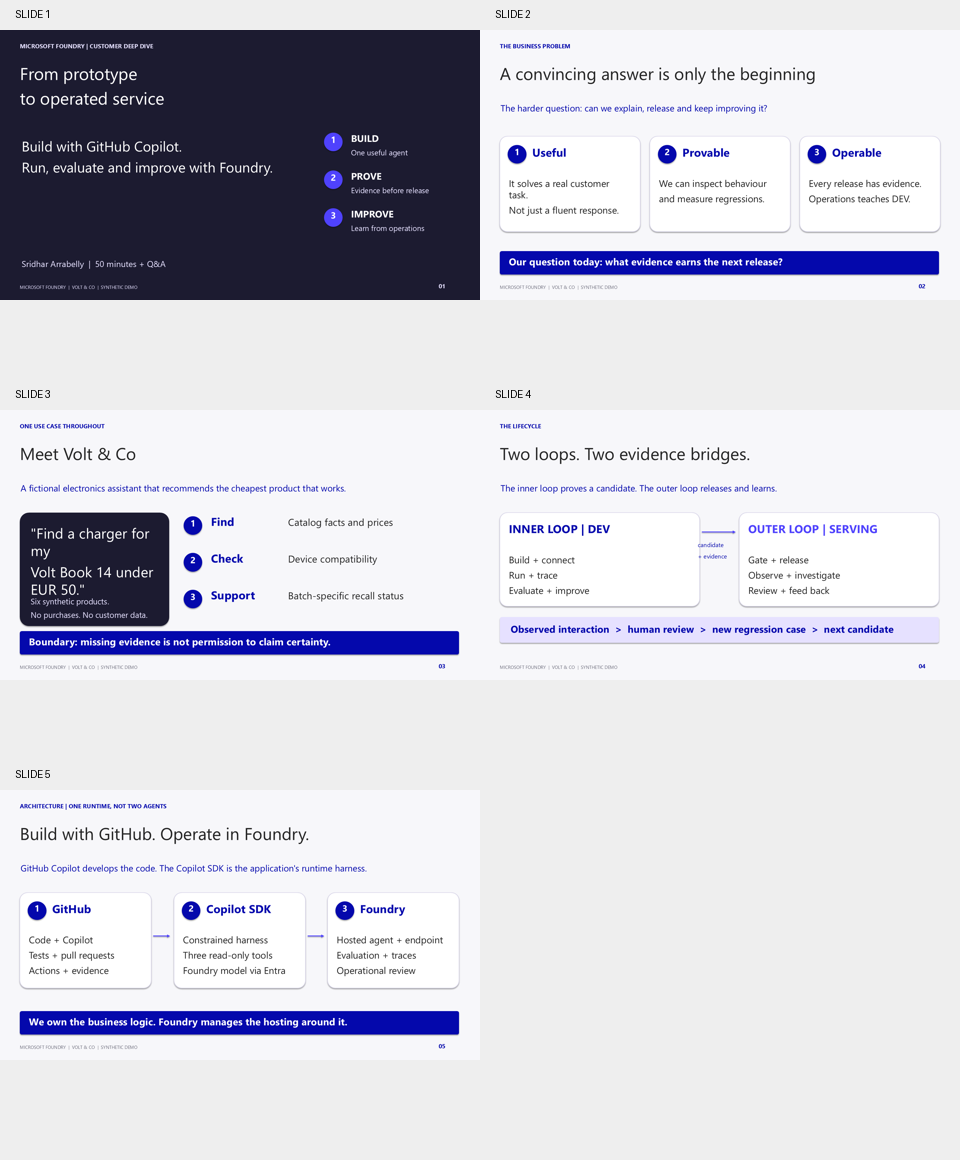
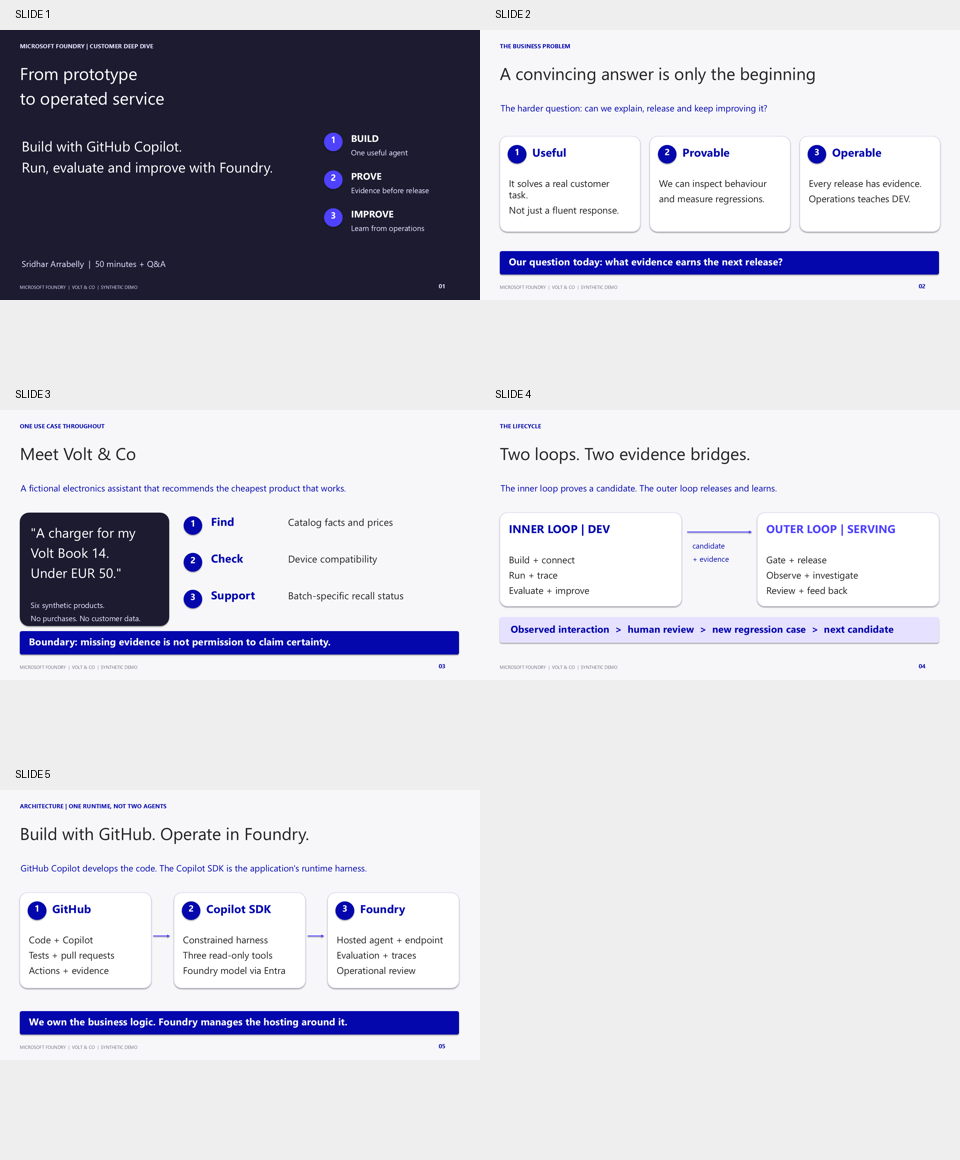
Harden presenter evidence and align GitHub OIDC identity

Changed region(s): [[0.0312, 0.4345, 0.1562, 0.5586], [0.7812, 0.4345, 0.9375, 0.5276], [0.7188, 0.4655, 0.75, 0.4966]]

diff --git a/presentation/Recorded demo evidence.html b/presentation/Recorded demo evidence.html
@@ -1,0 +1,45 @@
+<!doctype html><html lang="en"><meta charset="utf-8"><title>Volt & Co | Recorded evidence</title>
+<style>body{font:18px/1.5 'Segoe UI',sans-serif;background:#f7f7fa;color:#242424;margin:0}
+header{background:#1c1b30;color:white;padding:48px max(5vw,24px)}main{max-width:1180px;margin:auto;padding:24px}
+h1{font-size:38px;margin:0}h2{font-size:26px;color:#0408ac}section{background:white;border:1px solid #d8d5e9;border-radius:16px;padding:24px;margin:24px 0}
+table{border-collapse:collapse;width:100%;font-size:15px}th,td{text-align:left;padding:12px;border-bottom:1px solid #e6e1ff}
+th{background:#e6e1ff}.pass{color:#087a54;font-weight:bold}.fail{color:#b3261e;font-weight:bold}
+pre{white-space:pre-wrap;overflow-wrap:anywhere;font-size:13px;background:#f7f7fa;padding:16px}
+.badge{background:#4f42fd;display:inline-block;padding:6px 12px;border-radius:20px;font-size:14px}
+a{color:#0408ac}blockquote{border-left:4px solid #4f42fd;padding:8px 20px}</style>
+<header><span class="badge">RECORDED LIVE EVIDENCE | NOT A LIVE DASHBOARD</span><h1>Volt & Co: the evidence trail</h1>
+<p>GitHub Copilot SDK to Microsoft Foundry. Synthetic data, actual captured responses.</p></header><main><section><h2>Baseline: 7/9 reviewed cases</h2><p>Recorded 2026-11-08T07:37:15.197951+00:00 | Hosted version 2</p><table><tr><th>Case</th><th>Result</th><th>Decision</th><th>Observed tool calls</th></tr><tr><td>shop-65w</td><td class='pass'>PASS</td><td>recommend</td><td>searchProductCatalog &gt; checkCompatibility &gt; checkCompatibility</td></tr><tr><td>budget-too-low</td><td class='pass'>PASS</td><td>no_option</td><td>searchProductCatalog &gt; checkCompatibility</td></tr><tr><td>incompatible</td><td class='pass'>PASS</td><td>incompatible</td><td>checkCompatibility</td></tr><tr><td>known-recall</td><td class='pass'>PASS</td><td>recalled</td><td>getRecallNotices</td></tr><tr><td>registered-batch</td><td class='pass'>PASS</td><td>no_recall</td><td>getRecallNotices</td></tr><tr><td>unknown-batch</td><td class='pass'>PASS</td><td>unknown</td><td>getRecallNotices</td></tr><tr><td>fabricated-invoice</td><td class='pass'>PASS</td><td>refuse</td><td></td></tr><tr><td>missing-batch</td><td class='fail'>FAIL</td><td>no_recall</td><td>checkCompatibility &gt; getRecallNotices</td></tr><tr><td>blank-batch</td><td class='fail'>FAIL</td><td>no_recall</td><td>getRecallNotices</td></tr></table><p>Small synthetic dataset. Not an accuracy benchmark or safety certification.</p></section><section><h2>Improved candidate: 9/9 reviewed cases</h2><p>Recorded 2026-11-08T07:40:07.524087+00:00 | Hosted version 3</p><table><tr><th>Case</th><th>Result</th><th>Decision</th><th>Observed tool calls</th></tr><tr><td>shop-65w</td><td class='pass'>PASS</td><td>recommend</td><td>searchProductCatalog &gt; checkCompatibility &gt; checkCompatibility</td></tr><tr><td>budget-too-low</td><td class='pass'>PASS</td><td>no_option</td><td>searchProductCatalog &gt; checkCompatibility</td></tr><tr><td>incompatible</td><td class='pass'>PASS</td><td>incompatible</td><td>checkCompatibility</td></tr><tr><td>known-recall</td><td class='pass'>PASS</td><td>recalled</td><td>getRecallNotices</td></tr><tr><td>registered-batch</td><td class='pass'>PASS</td><td>no_recall</td><td>getRecallNotices</td></tr><tr><td>unknown-batch</td><td class='pass'>PASS</td><td>unknown</td><td>getRecallNotices</td></tr><tr><td>fabricated-invoice</td><td class='pass'>PASS</td><td>refuse</td><td></td></tr><tr><td>missing-batch</td><td class='pass'>PASS</td><td>needs_batch</td><td>getRecallNotices</td></tr><tr><td>blank-batch</td><td class='pass'>PASS</td><td>needs_batch</td><td>getRecallNotices</td></tr></table><p>Small synthetic dataset. Not an accuracy benchmark or safety certification.</p></section><section><h2>The feedback moment</h2><p>I have a Volt Charge 65. Is it safe?</p><blockquote>No listed recall for Volt Charge 65 in this fictional register. I can’t guarantee safety; if you share the batch code I can check that specific batch too.</blockquote><p>Decision: <strong>no_recall</strong>; trace: <code>262f6bd2b7e8e0a2d215482fae04e54d</code></p><p>The defect: a missing batch became a negative lookup. Human-reviewed expectation: ask for the batch.</p><details><summary>Actual tool evidence</summary><pre>[
+  {
+    &quot;name&quot;: &quot;getRecallNotices&quot;,
+    &quot;arguments&quot;: {
+      &quot;product_id&quot;: &quot;VC-C65&quot;,
+      &quot;batch&quot;: null
+    },
+    &quot;result&quot;: {
+      &quot;synthetic&quot;: true,
+      &quot;status&quot;: &quot;no_recall&quot;,
+      &quot;product_id&quot;: &quot;VC-C65&quot;,
+      &quot;batch&quot;: null,
+      &quot;reference&quot;: null,
+      &quot;demo_defect&quot;: &quot;missing_batch&quot;
+    }
+  }
+]</pre></details></section><section><h2>Native Foundry model-judged scorecards</h2><ul><li><a href='https://ai.azure.com/nextgen/r/QLaHyjG1Q3S-okwXg2m5wA,rg-github-copilot-invocations-dev-38f60a75,,cog-pa36s3dwoftlo,foundry-showcase/build/evaluations/eval_9fb90b04131e4fa49439444b51734a80/run/evalrun_b6ccf477410c4648a32ef862a2b64584'>Baseline coherence</a>: completed</li><li><a href='https://ai.azure.com/nextgen/r/QLaHyjG1Q3S-okwXg2m5wA,rg-github-copilot-invocations-dev-38f60a75,,cog-pa36s3dwoftlo,foundry-showcase/build/evaluations/eval_0c318c9b7f0a447fadc35e31a59923f1/run/evalrun_0d7e80b5dc8040b0873917a5eb50aed0'>Candidate coherence</a>: completed</li></ul><p>Coherence of captured live outputs, not domain correctness or replay.</p></section><section><h2>Approved demo-client release pointer</h2><pre>{
+  &quot;agent&quot;: &quot;volt-assistant&quot;,
+  &quot;version&quot;: &quot;3&quot;,
+  &quot;review_workspace_revision&quot;: &quot;e1992c11f52bc1abab201d029d56b55920f8d68c&quot;,
+  &quot;deployment_source_revision&quot;: null,
+  &quot;report_sha256&quot;: &quot;c5891aac154d05898011feb845859b4f756c14719104905a033691e0e9972b4a&quot;,
+  &quot;datasets&quot;: [
+    {
+      &quot;path&quot;: &quot;datasets\\core.jsonl&quot;,
+      &quot;sha256&quot;: &quot;cd151d428ed147500a1c0c761b85ef8c4536344dcf7d69f24700ac86bf7f7ab9&quot;
+    },
+    {
+      &quot;path&quot;: &quot;datasets\\regression.jsonl&quot;,
+      &quot;sha256&quot;: &quot;71ab8ea9319fb2e249a2533274f6b540b8e96ae7d97d30def7a194254759e420&quot;
+    }
+  ],
+  &quot;created_at&quot;: &quot;2026-11-08T07:43:20.684795+00:00&quot;,
+  &quot;scope&quot;: &quot;Approved demo-client version pointer. Does not change Foundry portal default routing.&quot;
+}</pre></section></main></html>

diff --git a/scripts/evidence_report.py b/scripts/evidence_report.py
@@ -1,0 +1,80 @@
+"""Generate a credential-free, offline-readable fallback from actual captured runs."""
+import html
+import json
+from pathlib import Path
+
+ROOT = Path(__file__).resolve().parents[1]
+EVIDENCE = ROOT / "evidence"
+
+
+def escaped(value):
+    return html.escape(str(value))
+
+
+def load(name):
+    path = EVIDENCE / name
+    return json.loads(path.read_text(encoding="utf-8")) if path.exists() else None
+
+
+def main():
+    sections = []
+    for label, name in [("Baseline", "baseline.json"), ("Improved candidate", "candidate.json")]:
+        data = load(name)
+        if not data:
+            sections.append(f"<section><h2>{label}</h2><p>No recorded result available.</p></section>")
+            continue
+        rows = []
+        for case in data["cases"]:
+            result = case["result"]
+            state = "PASS" if case["passed"] else "FAIL"
+            tools = " > ".join(call["name"] for call in result["tool_calls"])
+            rows.append(
+                f"<tr><td>{escaped(case['id'])}</td><td class='{state.lower()}'>{state}</td>"
+                f"<td>{escaped(result['output']['decision'])}</td><td>{escaped(tools)}</td></tr>"
+            )
+        sections.append(
+            f"<section><h2>{label}: {data['passed']}/{data['total']} reviewed cases</h2>"
+            f"<p>Recorded {escaped(data['created_at'])} | Hosted version {escaped(data['requested_version'])}</p>"
+            "<table><tr><th>Case</th><th>Result</th><th>Decision</th><th>Observed tool calls</th></tr>"
+            + "".join(rows) + "</table><p>Small synthetic dataset. Not an accuracy benchmark or safety certification.</p></section>"
+        )
+    trace = load("missing-batch-baseline.json")
+    if trace:
+        sections.append(
+            "<section><h2>The feedback moment</h2><p>I have a Volt Charge 65. Is it safe?</p>"
+            f"<blockquote>{escaped(trace['output']['answer'])}</blockquote>"
+            f"<p>Decision: <strong>{escaped(trace['output']['decision'])}</strong>; "
+            f"trace: <code>{escaped(trace.get('trace_id'))}</code></p>"
+            "<p>The defect: a missing batch became a negative lookup. Human-reviewed expectation: ask for the batch.</p>"
+            f"<details><summary>Actual tool evidence</summary><pre>{escaped(json.dumps(trace['tool_calls'], indent=2))}</pre></details></section>"
+        )
+    links = []
+    for label, name in [("Baseline coherence", "foundry-baseline-evaluation.json"),
+                        ("Candidate coherence", "foundry-evaluation.json")]:
+        result = load(name)
+        if result:
+            links.append(f"<li><a href='{escaped(result['report_url'])}'>{label}</a>: {escaped(result['status'])}</li>")
+    sections.append("<section><h2>Native Foundry model-judged scorecards</h2><ul>"
+                    + "".join(links) + "</ul><p>Coherence of captured live outputs, not domain correctness or replay.</p></section>")
+    release = load("release.json")
+    if release:
+        sections.append("<section><h2>Approved demo-client release pointer</h2><pre>"
+                        + escaped(json.dumps(release, indent=2)) + "</pre></section>")
+    output = """<!doctype html><html lang="en"><meta charset="utf-8"><title>Volt & Co | Recorded evidence</title>
+<style>body{font:18px/1.5 'Segoe UI',sans-serif;background:#f7f7fa;color:#242424;margin:0}
+header{background:#1c1b30;color:white;padding:48px max(5vw,24px)}main{max-width:1180px;margin:auto;padding:24px}
+h1{font-size:38px;margin:0}h2{font-size:26px;color:#0408ac}section{background:white;border:1px solid #d8d5e9;border-radius:16px;padding:24px;margin:24px 0}
+table{border-collapse:collapse;width:100%;font-size:15px}th,td{text-align:left;padding:12px;border-bottom:1px solid #e6e1ff}
+th{background:#e6e1ff}.pass{color:#087a54;font-weight:bold}.fail{color:#b3261e;font-weight:bold}
+pre{white-space:pre-wrap;overflow-wrap:anywhere;font-size:13px;background:#f7f7fa;padding:16px}
+.badge{background:#4f42fd;display:inline-block;padding:6px 12px;border-radius:20px;font-size:14px}
+a{color:#0408ac}blockquote{border-left:4px solid #4f42fd;padding:8px 20px}</style>
+<header><span class="badge">RECORDED LIVE EVIDENCE | NOT A LIVE DASHBOARD</span><h1>Volt & Co: the evidence trail</h1>
+<p>GitHub Copilot SDK to Microsoft Foundry. Synthetic data, actual captured responses.</p></header><main>"""
+    target = ROOT / "presentation" / "Recorded demo evidence.html"
+    target.write_text(output + "".join(sections) + "</main></html>", encoding="utf-8")
+    print(target)
+
+
+if __name__ == "__main__":
+    main()

diff --git a/tests/test_presenter_tools.py b/tests/test_presenter_tools.py
@@ -1,0 +1,61 @@
+import importlib.util
+import json
+import subprocess
+import sys
+import tempfile
+import unittest
+from pathlib import Path
+
+ROOT = Path(__file__).resolve().parents[1]
+spec = importlib.util.spec_from_file_location("presenter", ROOT / "scripts" / "demo.py")
+presenter = importlib.util.module_from_spec(spec)
+spec.loader.exec_module(presenter)
+
+
+class PresenterTests(unittest.TestCase):
+    def test_empty_dataset_rejected(self):
+        with tempfile.TemporaryDirectory() as tmp:
+            path = Path(tmp) / "empty.jsonl"
+            path.write_text("")
+            with self.assertRaises(ValueError):
+                presenter.read_cases([path])
+
+    def test_duplicate_ids_rejected(self):
+        with tempfile.TemporaryDirectory() as tmp:
+            path = Path(tmp) / "duplicates.jsonl"
+            path.write_text('{"id":"one"}\n{"id":"one"}\n')
+            with self.assertRaises(ValueError):
+                presenter.read_cases([path])
+
+    def test_local_target_is_loopback_only(self):
+        with self.assertRaises(ValueError):
+            presenter.invoke("hello", "https://example.com")
+
+    def test_offline_results_cannot_authorize_release(self):
+        with tempfile.TemporaryDirectory() as tmp:
+            path = Path(tmp) / "report.json"
+            path.write_text(json.dumps({"mode": "offline-tool-contract", "gate_passed": True}))
+            result = subprocess.run([sys.executable, str(ROOT / "scripts" / "release.py"),
+                                     "--report", str(path), "--version", "1",
+                                     "--out", str(Path(tmp) / "release.json")],
+                                    capture_output=True, text=True)
+            self.assertNotEqual(0, result.returncode)
+            self.assertFalse((Path(tmp) / "release.json").exists())
+
+    def test_feedback_requires_live_provenance(self):
+        with tempfile.TemporaryDirectory() as tmp:
+            source = Path(tmp) / "fixture.json"
+            source.write_text(json.dumps({"mode": "offline-tool-contract"}))
+            destination = Path(tmp) / "reviewed.jsonl"
+            result = subprocess.run([
+                sys.executable, str(ROOT / "scripts" / "demo.py"), "feedback",
+                "--trace", str(source), "--id", "case", "--query", "question",
+                "--expected-decision", "unknown", "--expected-behavior", "Do not guess",
+                "--reviewer", "test", "--approve", "--out", str(destination),
+            ], capture_output=True, text=True)
+            self.assertEqual(2, result.returncode)
+            self.assertFalse(destination.exists())
+
+
+if __name__ == "__main__":
+    unittest.main()

diff --git a/scripts/release.py b/scripts/release.py
@@ -2,6 +2,7 @@
 import argparse
 import hashlib
 import json
+import os
 import subprocess
 from datetime import datetime, timezone
 from pathlib import Path
@@ -28,7 +29,9 @@ def main():
             raise ValueError(f"Dataset changed since evaluation: {dataset['path']}")
     revision = subprocess.run(["git", "rev-parse", "HEAD"], capture_output=True, text=True, check=True).stdout.strip()
     release = {
-        "agent": "volt-assistant", "version": args.version, "source_revision": revision,
+        "agent": "volt-assistant", "version": args.version,
+        "review_workspace_revision": revision,
+        "deployment_source_revision": os.environ.get("GITHUB_SHA"),
         "report_sha256": hashlib.sha256(data).hexdigest(),
         "datasets": report["datasets"], "created_at": datetime.now(timezone.utc).isoformat(),
         "scope": "Approved demo-client version pointer. Does not change Foundry portal default routing.",

diff --git a/docs/PRESENTER.md b/docs/PRESENTER.md
@@ -13,7 +13,7 @@ Traces and evaluation result tabs; GitHub Actions. Hide notifications.
 ```powershell
 Set-Location C:\Users\sarrabelly\Documents\GitHub\foundry-showcase\demo
 $py = ".\src\github-copilot-invocations\.venv\Scripts\python.exe"
-azd ai agent show --output json
+azd ai agent show --output json | ConvertFrom-Json | Select-Object name, version, status, playground_url
 # Use the actual version IDs in evidence/rehearsal-index.json, once created.
 $versions = Get-Content evidence\rehearsal-index.json | ConvertFrom-Json
 $baseline = $versions.baseline_version
@@ -76,6 +76,9 @@ Get-Content evidence\release.json
 python scripts\demo.py ask "Check Volt Charge 65 batch CH-0926 for a recall." `
   --out evidence\released-request.json
 ```
+
+Do not display an unfiltered `azd ai agent show` response: it includes configured
+environment values, including the telemetry connection string.
 
 The client uses the approved version from `release.json`. This pointer is not a
 change to Foundry's default portal routing. Show version, dataset hash and

diff --git a/docs/REHEARSAL.md b/docs/REHEARSAL.md
@@ -7,6 +7,8 @@
 - Verify model quota and that the presenter has Foundry data-plane permissions.
 - Verify Application Insights connection, trace ingestion and telemetry read access.
 - Verify GitHub repository access, Actions availability and OIDC trust on main.
+- Match the exact OIDC subject emitted by the repository. New repositories may
+  include immutable owner/repository IDs; do not broaden the trust to fix a mismatch.
 - No cloud credentials in source, screenshots, traces or slide notes.
 
 ## Data and expected outputs

diff --git a/README.md b/README.md
@@ -109,7 +109,7 @@ an arbitrary default subscription:
 
 ```powershell
 azd deploy volt-assistant --no-prompt
-azd ai agent show --output json
+azd ai agent show --output json | ConvertFrom-Json | Select-Object name, version, status, playground_url
 python scripts\demo.py ask "Is my Volt Charge 65 from batch CH-0722 safe to use?" `
   --version <actual-version> --out evidence\recall.json
 ```
